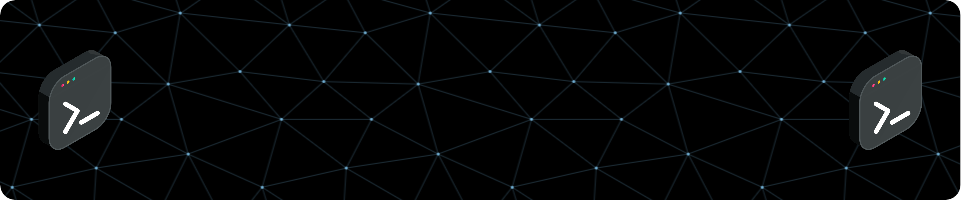
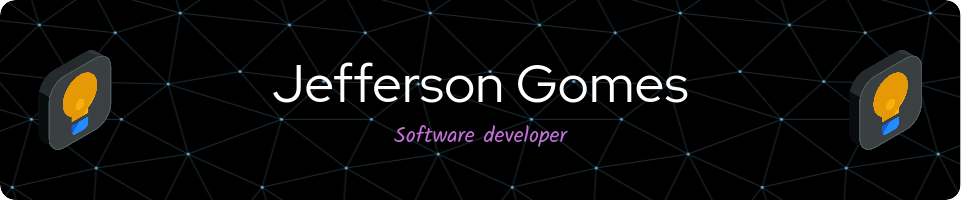
Atualizar projeto

diff --git a/README.md b/README.md
@@ -1,5 +1,5 @@
 
-![Header](./images/Banner2.png)
+![Header](./images/Banner.png)
 
 ![Apresentação](https://readme-typing-svg.demolab.com/?lines=Olá!;Seja+bem+vindo+ao+meu+GitHub.;&center=true&vCenter=true&size=45&width=1000&color=#36BCF7FF&font=Honk&size)
 
